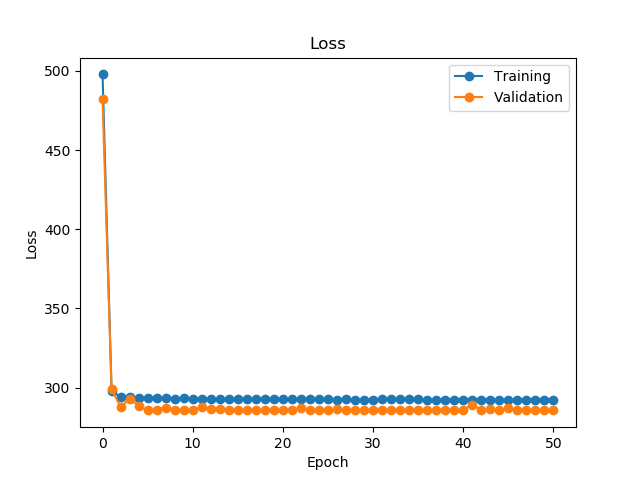
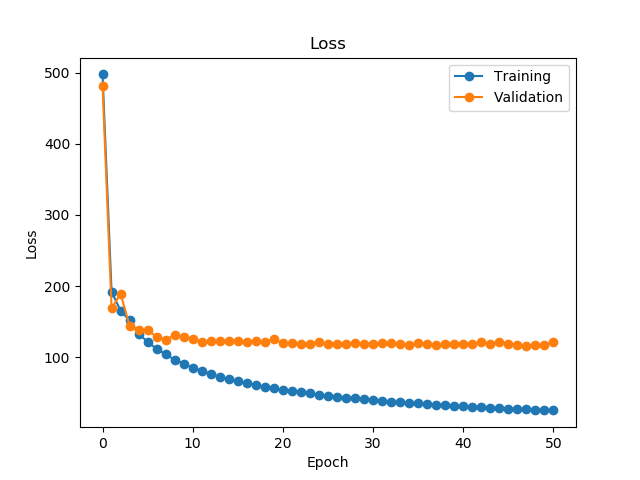
fix bug

diff --git a/scripts/neural_network/p1p2/train.py b/scripts/neural_network/p1p2/train.py
@@ -58,7 +58,7 @@ def main():
         length_list = []
         for ground_depth_maps, wall_depth_maps, p2s, ddyns in training_generator:
             ground_depth_maps, wall_depth_maps, p2s, ddyns = ground_depth_maps.to(device), wall_depth_maps.to(device), p2s.to(device), ddyns.to(device)
-            predicted_ddyns = model(ground_depth_maps, wall_depth_maps, p2s)
+            predicted_ddyns = model(ground_depth_maps, wall_depth_maps, p2s).squeeze()
             loss = criterion(predicted_ddyns, ddyns)
             loss_list.append(loss)
             length_list.append(predicted_ddyns.shape[0])
@@ -70,7 +70,7 @@ def main():
         length_list = []
         for ground_depth_maps, wall_depth_maps, p2s, ddyns in validation_generator:
             ground_depth_maps, wall_depth_maps, p2s, ddyns = ground_depth_maps.to(device), wall_depth_maps.to(device), p2s.to(device), ddyns.to(device)
-            predicted_ddyns = model(ground_depth_maps, wall_depth_maps, p2s)
+            predicted_ddyns = model(ground_depth_maps, wall_depth_maps, p2s).squeeze()
             loss = criterion(predicted_ddyns, ddyns)
             loss_list.append(loss)
             length_list.append(predicted_ddyns.shape[0])
@@ -88,7 +88,7 @@ def main():
         for ground_depth_maps, wall_depth_maps, p2s, ddyns in training_generator:
             ground_depth_maps, wall_depth_maps, p2s, ddyns = ground_depth_maps.to(device), wall_depth_maps.to(device), p2s.to(device), ddyns.to(device)
             optimizer.zero_grad()
-            predicted_ddyns = model(ground_depth_maps, wall_depth_maps, p2s)
+            predicted_ddyns = model(ground_depth_maps, wall_depth_maps, p2s).squeeze()
             loss = criterion(predicted_ddyns, ddyns)
             loss.backward()
             optimizer.step()
@@ -106,7 +106,7 @@ def main():
             length_list = []
             for ground_depth_maps, wall_depth_maps, p2s, ddyns in validation_generator:
                 ground_depth_maps, wall_depth_maps, p2s, ddyns = ground_depth_maps.to(device), wall_depth_maps.to(device), p2s.to(device), ddyns.to(device)
-                predicted_ddyns = model(ground_depth_maps, wall_depth_maps, p2s)
+                predicted_ddyns = model(ground_depth_maps, wall_depth_maps, p2s).squeeze()
                 loss = criterion(predicted_ddyns, ddyns)
                 loss_list.append(loss)
                 length_list.append(predicted_ddyns.shape[0])
